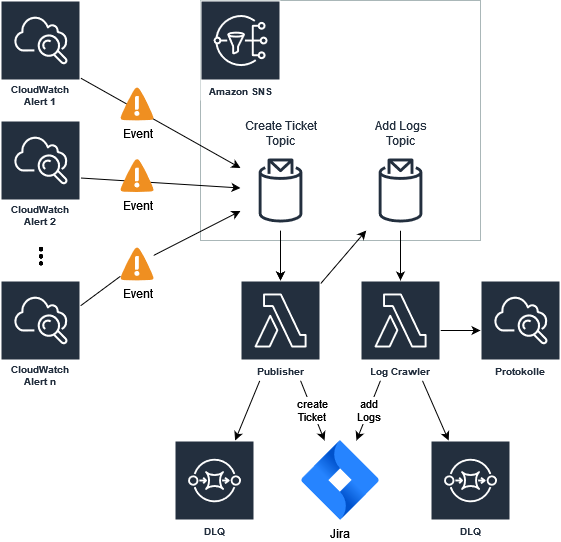
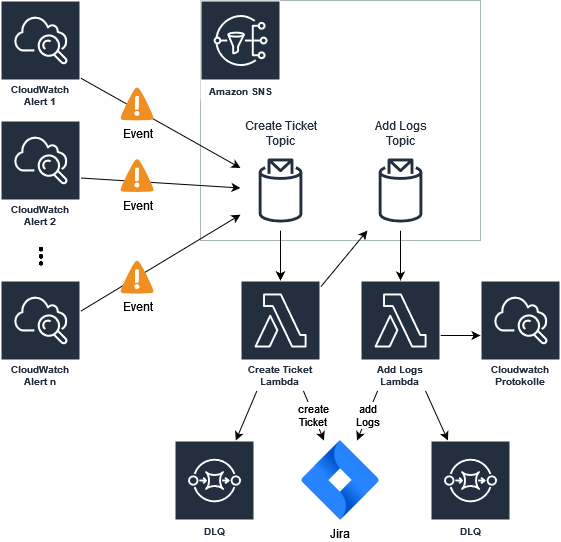
technische Infrastrukur angepasst

diff --git a/_posts/2022-04-26-Alarmeboard_mit_Jira_und_Cloudwatch.md b/_posts/2022-04-26-Alarmeboard_mit_Jira_und_Cloudwatch.md
@@ -13,7 +13,7 @@ Dabei den Überblick zu behalten, wichtige Alarme direkt zu priorisieren und die
 Natürlich darf nichts unter den Tisch fallen und es sollte sichergestellt sein, dass klar ist, wer gerade welchen Alarm bearbeitet.
 
 Mit Jira ist ein Tool gegeben, welches sowieso schon in vielen Projekten Einsatz findet. 
-Wie dieses genutzt werden kann um die Alarme und ihren Status zu visualisieren will ich im Folgenden beschreiben.
+Wie dieses genutzt werden kann um die Alarme und ihren Status zu visualisieren wollen wir im Folgenden beschreiben.
 
 # Wie entstand der Bedarf an der Lösung?
 DevOps ist ein Thema, welches in unterschiedlichsten Teams, auf unterschiedliche Art gelebt wird. 
@@ -27,27 +27,26 @@ Landen die Alarm-Events einmal in einem Topic ist es ein leichtes die Informatio
 
 # Alarme mit Terraform erzeugen und an ein Topic schicken
 
-Als Beispiel soll hier ein Alarm dienen, der immer dann ein Event an ein konfigurierbares Topic sendet, wenn eine Message in einer Dead Letter Queue gelandet ist:
+Als Beispiel soll uns hier ein Alarm dienen, der immer dann ein Event an ein konfigurierbares Topic sendet, wenn eine Message in einer Dead Letter Queue (kurz DLQ) gelandet ist:
 ```terraform
 resource "aws_cloudwatch_metric_alarm" "dlq_alarm" {
-  for_each                  = aws_sqs_queue.dlq
-  alarm_name                = each.value.name
-  comparison_operator       = "GreaterThanOrEqualToThreshold"
-  evaluation_periods        = 1
-  metric_name               = "ApproximateNumberOfMessagesVisible"
-  namespace                 = "AWS/SQS"
-  period                    = "60"
-  statistic                 = "Sum"
-  threshold                 = "1"
-  ok_actions                = []
-  insufficient_data_actions = []
-  datapoints_to_alarm       = 1
-  alarm_description         = "This Alarm triggers when there are messages, which could not be published"
-  dimensions = {
-    "QueueName" = each.value.name
-  }
-  alarm_actions = [var.alarmTopicSns]
-  tags          = var.tags
+   alarm_name                = "MyProject-DlqAlarm-Stage"
+   comparison_operator       = "GreaterThanOrEqualToThreshold"
+   evaluation_periods        = 1
+   metric_name               = "ApproximateNumberOfMessagesVisible"
+   namespace                 = "AWS/SQS"
+   period                    = "60"
+   statistic                 = "Sum"
+   threshold                 = "1"
+   ok_actions                = []
+   insufficient_data_actions = []
+   datapoints_to_alarm       = 1
+   alarm_description         = "Sends an event when there are messages in the DLQ"
+   dimensions = {
+      "QueueName" = aws_sqs_queue.dlq.name
+   }
+   alarm_actions = [var.alarmTopicSns]
+   tags          = var.tags
 }
 ```
 Damit könnte man meinen das Thema sei durch.
@@ -212,10 +211,25 @@ public List<FilteredLogEvent> retrieveLogsFor(String logGroupName,
 > 2. Anlegen des Kommentars mittels JIRA API [POST /rest/api/3/issue/{issueIdOrKey}/comment](https://developer.atlassian.com/cloud/jira/platform/rest/v3/api-group-issue-comments/#api-rest-api-3-issue-issueidorkey-comment-post)
 
 ## Zusammenspiel der Komponenten
+Wenn wir die hier erstellten Komponenten zusammen betrachten, ergibt sich folgendes Gesamtbild der technischen Infrastruktur:
 
-![Aufbau der Infrastruktur](/assets/images/posts/Alarmeboard_mit_Jira_und_Cloudwatch/Alarme_Konzept.png)
+![Aufbau der technischen Infrastruktur](/assets/images/posts/Alarmeboard_mit_Jira_und_Cloudwatch/Alarme_Konzept.png)
+Eine nahezu beliebige Anzahl von Alarmen können auf Basis von Metriken oder Protokollfiltern definiert werden und senden ihre Events an ein SNS-Topic ("Create Ticket").
+Dieses stößt unsere erste Lambda an, die dafür zuständig ist das Ticket im Jira initial anzulegen.
+Sobald dies erfolgreich erledigt wurde, kann das Event an ein weiteres SNS-Topic ("Add Logs") weitergeleitet werden.
+Die dadurch ausgelöste Lambdafunktion ergänzt das Ticket um die Logs, die zu dem Alarm geführt haben.
+Dazu wird auf die Logs in Cloudwatch anhand der Parameter aus dem Event zugegriffen.
+Sollte es an einer beliebigen Stelle innerhalb dieses Prozesses zu einem Fehler kommen, sind beide Lambdas durch eine DLQ abgesichert, so dass keine Daten verloren gehen können.
+Wenn zum Beispiel Jira kurzfristig nicht erreichbar war, können die Events aus der DLQ später wieder eingespielt werden.
+
+Die benötigten Komponenten aus dem Werkzeugkasten von AWS sind somit sehr überschaubar.
+Auch, wenn Alarme aus viele Projekte daran angeschlossen werden, skaliert diese Lösung problemlos mit.
 
 ### Kosten
+* Lambdas nur bei Alarm
+* SNS pro Event
+* Alarm-Metriken (fallen eigentlich nicht mehr an, als im Projekt sowieso notwendig, also keine zusätzlichen Kosten)
+* DLQ pro Message
 
 # Automatisierung in Jira nutzen
 
